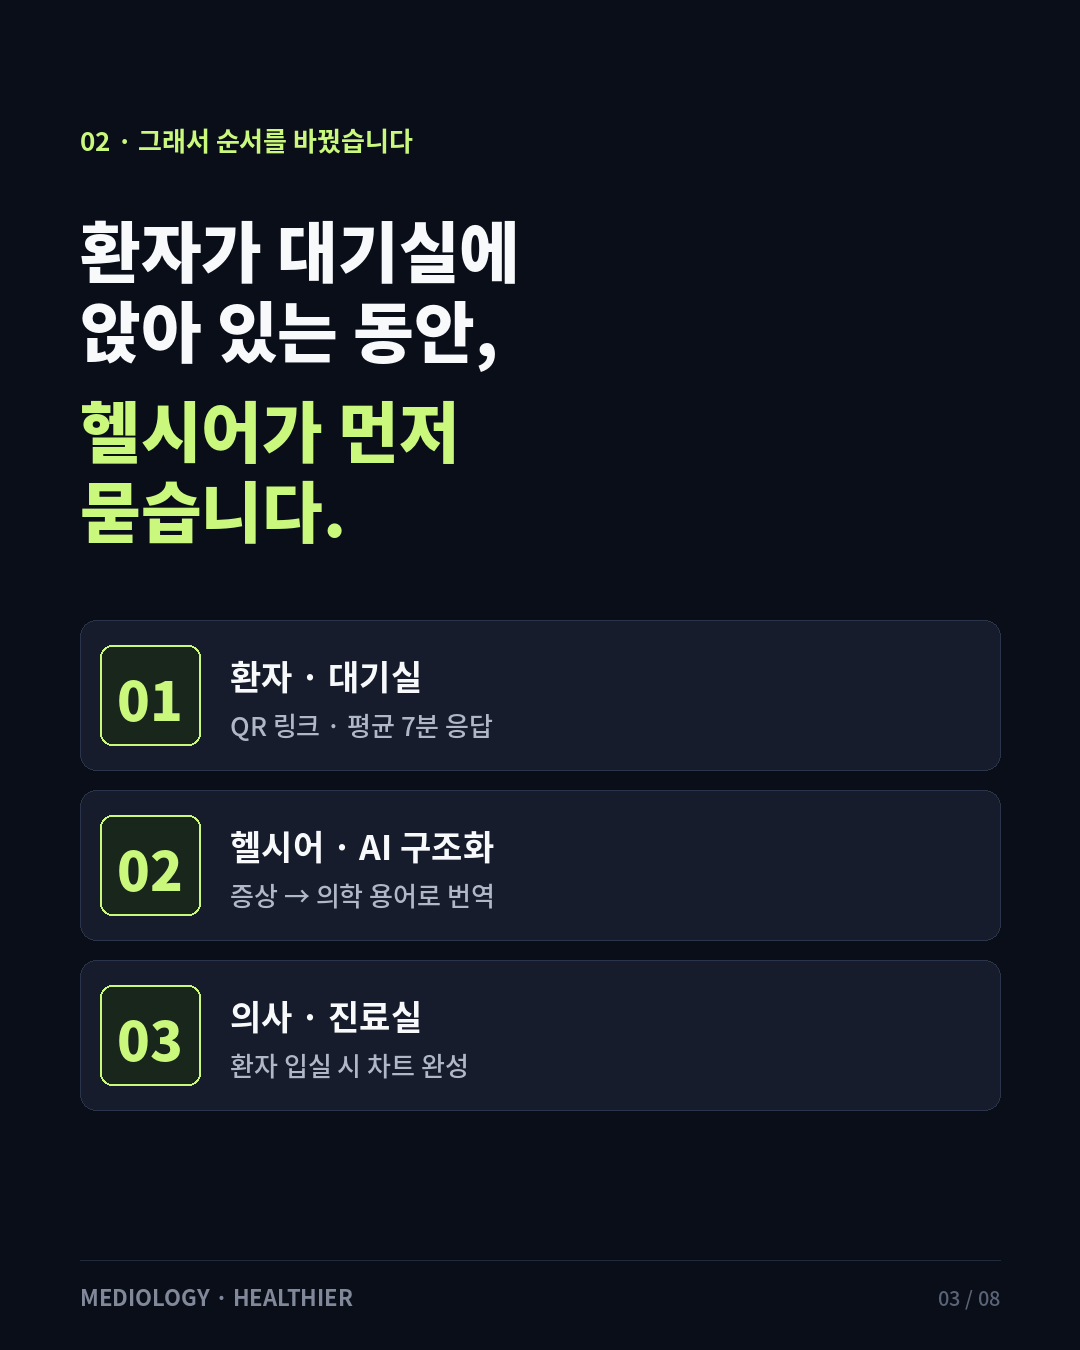
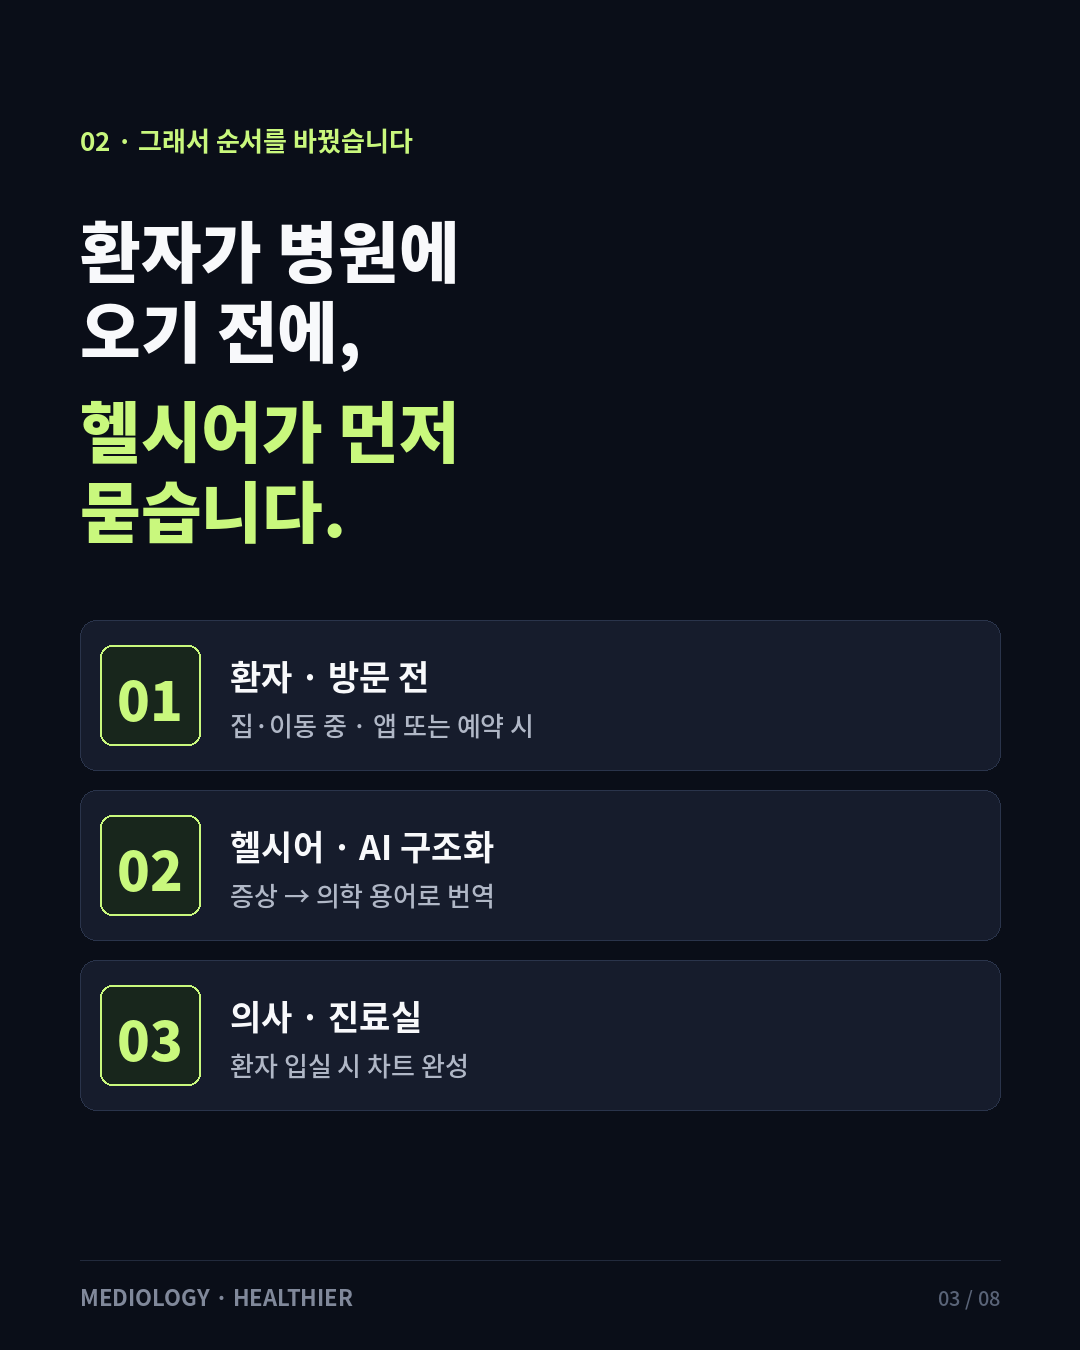
card-d B2B 업그레이드: 이중 혜택 내러티브 + 방문 전 타이밍 + 회사 이메일
- slide 3: 대기실 → 방문 전(집·이동 중) 타이밍 정정
- slide 7: Trust 단일가치 → 이중 혜택(진료 효율 + 환자 유입) 재구성
  · 헬시어 등록 병원 = 근처 유저에게 우선 추천되는 추천 병원 등재
- slide 8: Healthier 아이콘 추가, Trust 칩(SNUH/TIPS/KYOBO) 압축, corp@mediology.ai
- index.html: 벤토 그리드 3등분, 카드 04/04, 갤러리 04세트/32슬라이드
- modal JS: decks.d 제목 '도구만 오지 않습니다. 환자도 옵니다.' + slide_7_referral 경로

Changed region(s): [[0.0611, 0.1556, 0.4889, 0.28], [0.2139, 0.4667, 0.4889, 0.56]]

diff --git a/index.html b/index.html
@@ -1750,7 +1750,7 @@
         </article>
 
         <!-- Card D — Pillar 04 · B2B Clinic -->
-        <article class="sample-card" data-deck="d" data-title="진료 전 3분 · Pillar 04 B2B">
+        <article class="sample-card" data-deck="d" data-title="도구 + 환자 유입 · Pillar 04 B2B">
           <div class="sample-cover">
             <img src="assets/samples/card-d/slide_1_cover.png" alt="환자 도착 전 AI 문진 카드뉴스 커버">
             <div class="sample-overlay">
@@ -1762,8 +1762,8 @@
           </div>
           <div class="sample-body">
             <div class="sample-label">Pillar 04 · B2B 의사·병원</div>
-            <h3>환자의 첫 3분을,<br>의사에게 돌려드립니다.</h3>
-            <p>B2B 진료실 타겟 8장. 환자가 오기 전 AI가 구조화된 문진을 끝내 의사에게 전달 — 의사는 바로 진단 판단에 집중. <b style="color:#a8e063;font-weight:600;">서울대병원·교보생명</b> 검증 데이터로 설계한 진료실 UI 감각.</p>
+            <h3>도구만 오지 않습니다.<br>환자도 옵니다.</h3>
+            <p>B2B 진료실 타겟 8장. 방문 전 AI 문진으로 <b>환자당 2분 30초 회수</b> + 등록 병원을 <b style="color:#a8e063;font-weight:600;">헬시어 지역 추천</b>에 자동 등재해 근처 유저를 유입하는 이중 혜택 구조.</p>
             <div class="sample-cta">
               <button class="btn-view" type="button">8장 보기</button>
               <span class="sample-duration">2분 · B2B</span>
@@ -2242,7 +2242,7 @@
         ]
       },
       d: {
-        title: '환자가 오기 전에, 문진은 이미 끝나있습니다 (B2B)',
+        title: '도구만 오지 않습니다. 환자도 옵니다. (B2B)',
         slides: [
           'assets/samples/card-d/slide_1_cover.png',
           'assets/samples/card-d/slide_2_five_min_reality.png',
@@ -2250,7 +2250,7 @@
           'assets/samples/card-d/slide_4_clinician_ui.png',
           'assets/samples/card-d/slide_5_structured.png',
           'assets/samples/card-d/slide_6_time_comparison.png',
-          'assets/samples/card-d/slide_7_trust.png',
+          'assets/samples/card-d/slide_7_referral.png',
           'assets/samples/card-d/slide_8_ending.png'
         ]
       }
